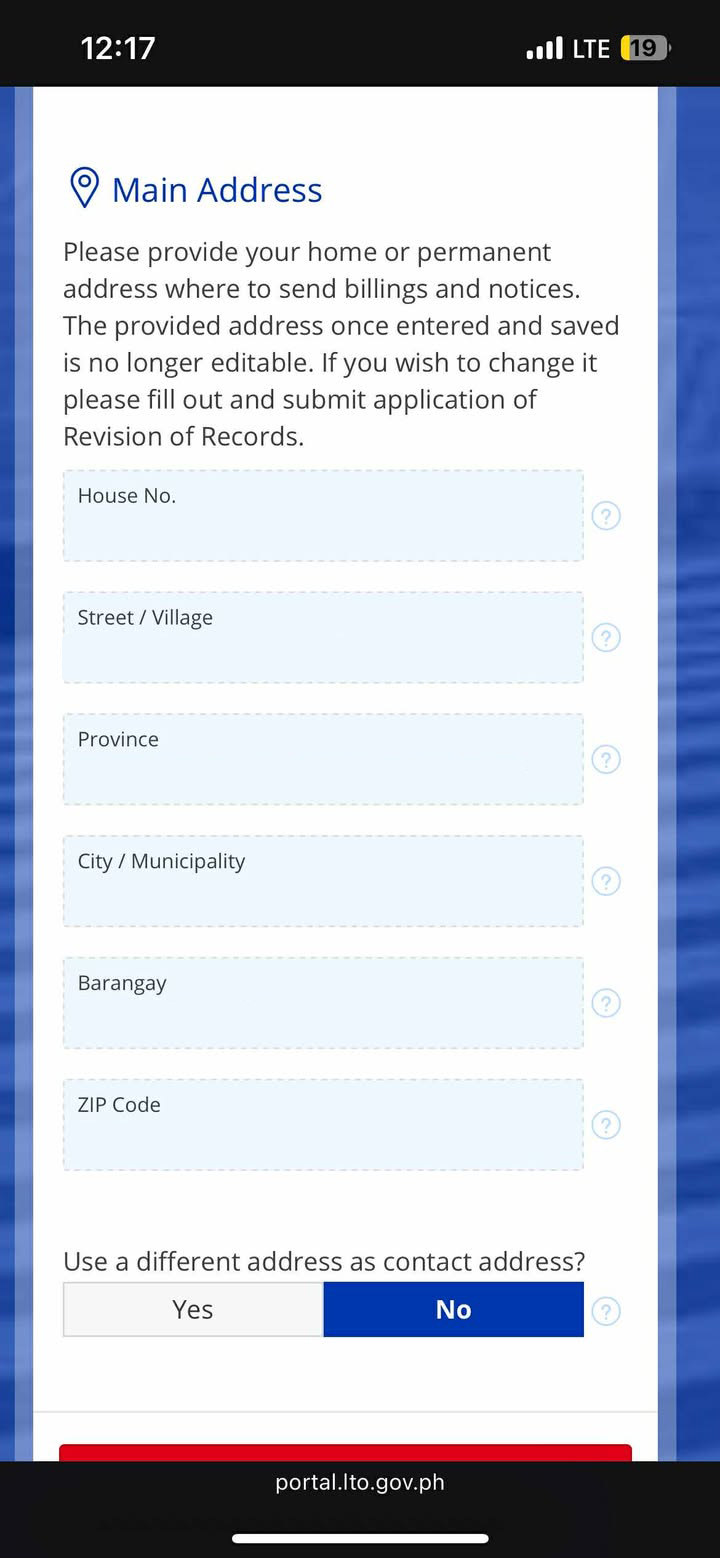
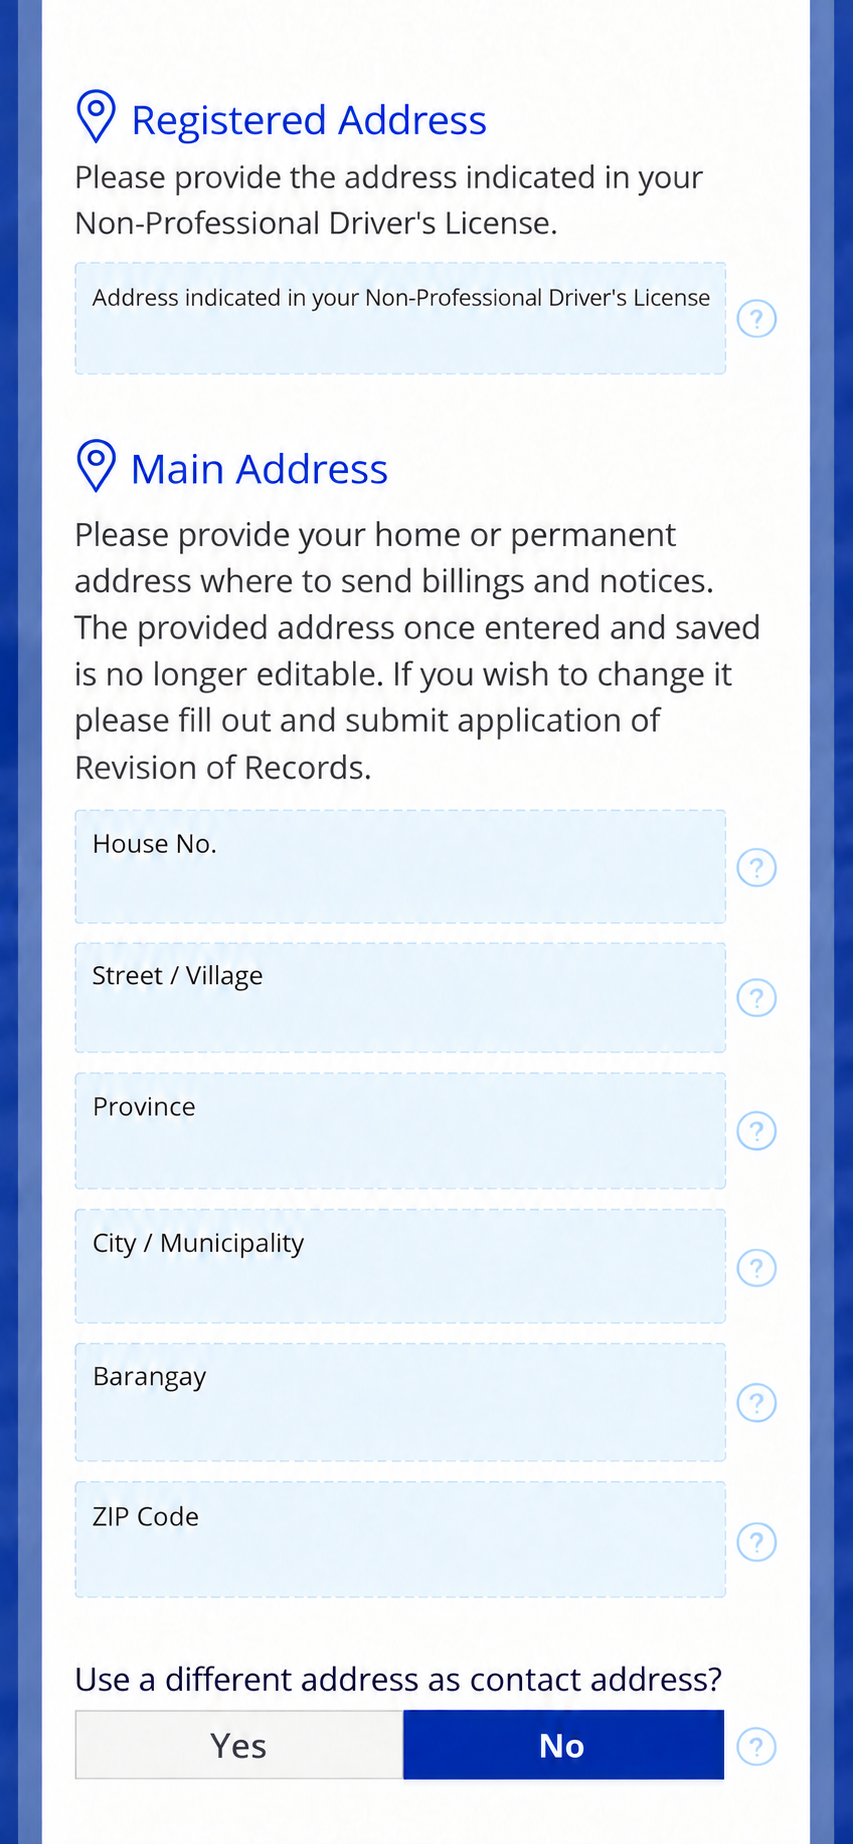
Fix LTMS registered address label layout

diff --git a/src/lib/ltms-filler-config.ts b/src/lib/ltms-filler-config.ts
@@ -5,6 +5,7 @@ export type LtmsFieldKey =
   | "middleName"
   | "email"
   | "mobile"
+  | "registeredAddressLicense"
   | "houseNo"
   | "streetVillage"
   | "province"
@@ -42,6 +43,7 @@ export const ltmsFields: LtmsFieldDefinition[] = [
   { key: "middleName", label: "Middle Name" },
   { key: "email", label: "Email", inputType: "email" },
   { key: "mobile", label: "Mobile", inputType: "tel" },
+  { key: "registeredAddressLicense", label: "Registered Address (License)" },
   { key: "houseNo", label: "House No" },
   { key: "streetVillage", label: "Street/Village" },
   { key: "province", label: "Province" },
@@ -75,15 +77,16 @@ export const ltmsTemplates: LtmsTemplateConfig[] = [
     title: "LTMS Page 2",
     imagePath: "/ltms_p2.png",
     outputName: "filled_ltms_p2.png",
-    font: "26px Arial",
+    font: "30px Arial",
     fillStyle: "#111827",
     coordinates: [
-      { field: "houseNo", x: 78, y: 533, maxWidth: 470 },
-      { field: "streetVillage", x: 78, y: 654, maxWidth: 470 },
-      { field: "province", x: 78, y: 776, maxWidth: 470 },
-      { field: "cityMunicipality", x: 78, y: 898, maxWidth: 470 },
-      { field: "barangay", x: 78, y: 1020, maxWidth: 470 },
-      { field: "zipCode", x: 78, y: 1142, maxWidth: 470 }
+      { field: "registeredAddressLicense", x: 92, y: 347, maxWidth: 625, fontSize: 25 },
+      { field: "houseNo", x: 92, y: 888, maxWidth: 625 },
+      { field: "streetVillage", x: 92, y: 1010, maxWidth: 625 },
+      { field: "province", x: 92, y: 1135, maxWidth: 625 },
+      { field: "cityMunicipality", x: 92, y: 1257, maxWidth: 625 },
+      { field: "barangay", x: 92, y: 1380, maxWidth: 625 },
+      { field: "zipCode", x: 92, y: 1517, maxWidth: 625 }
     ]
   }
 ];
